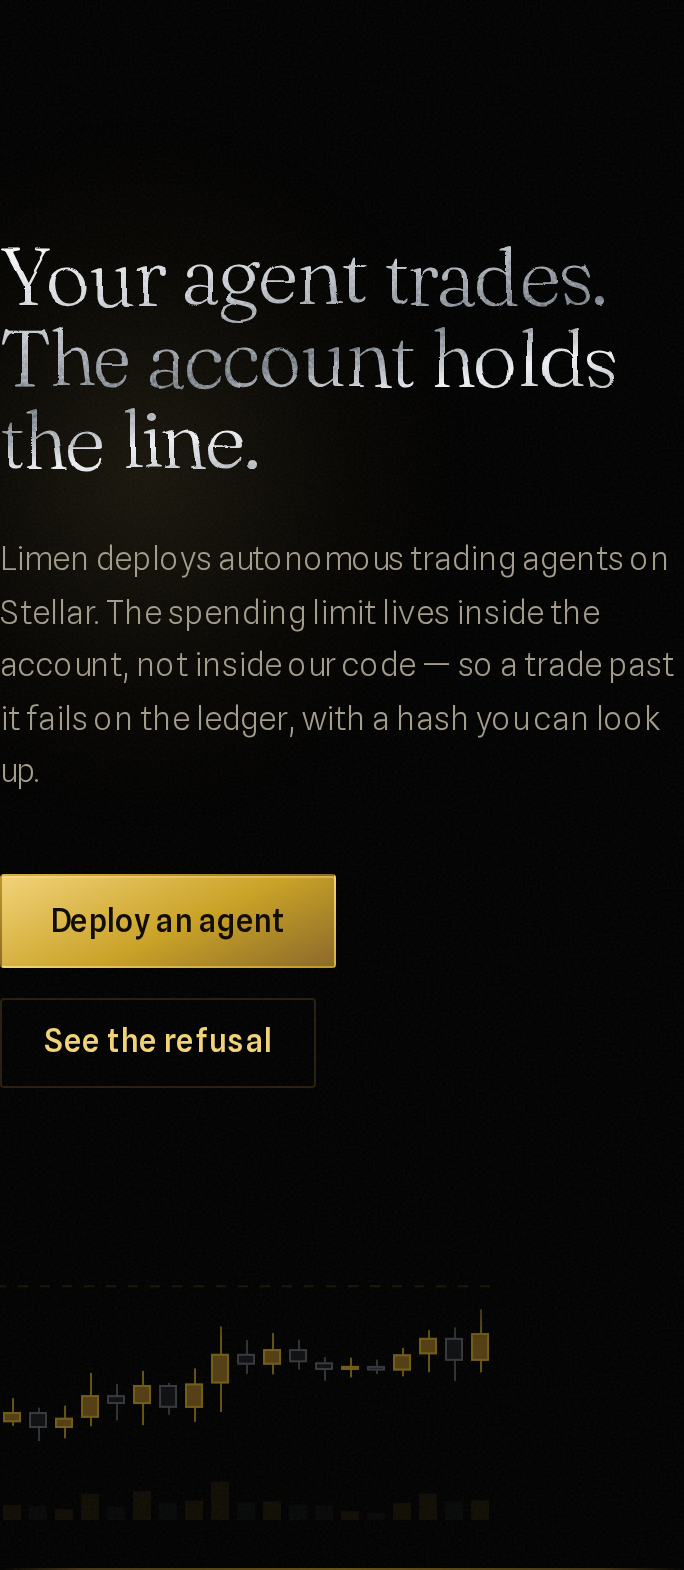
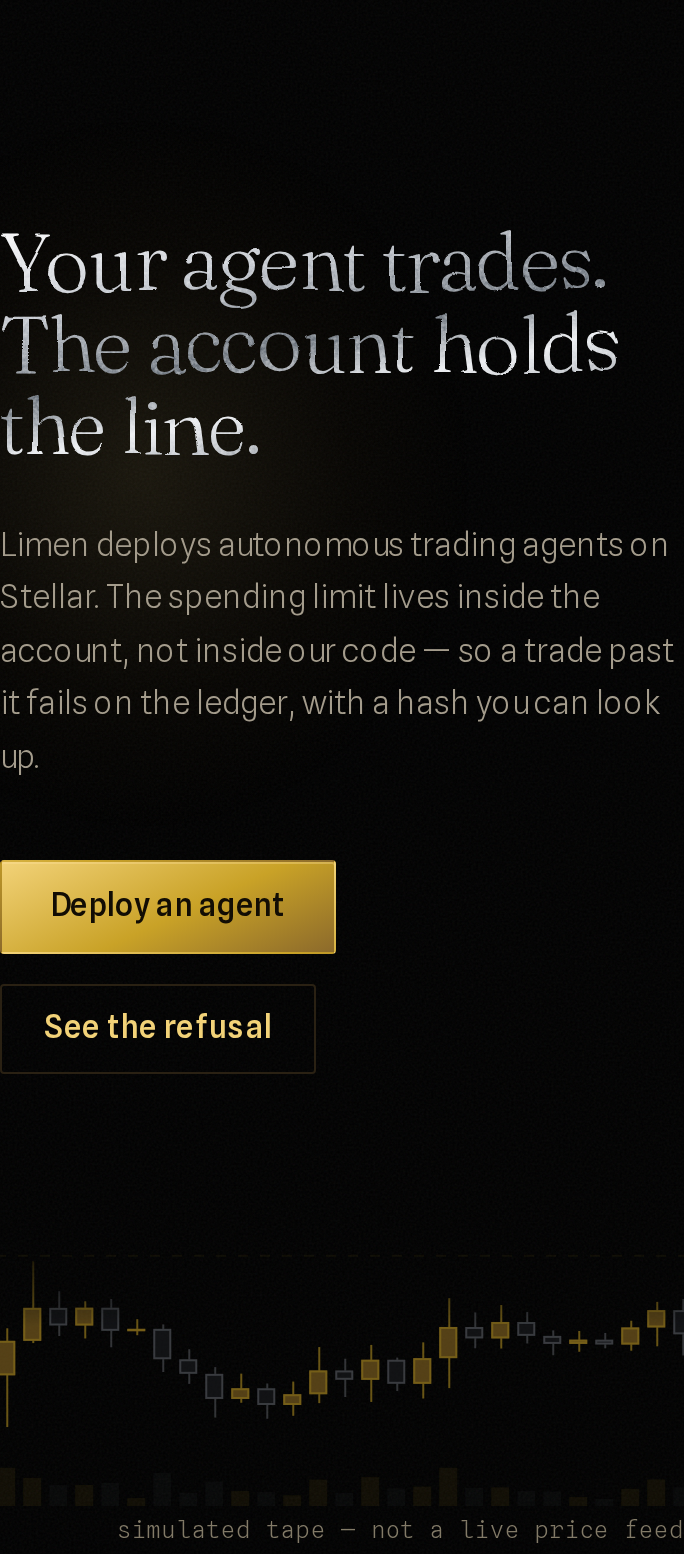
Let the mobile candle strip fill its inset box
Below 820 the tape becomes a strip under the hero, inset by a negative gutter
on both sides. It never filled that box: the strip measured 272px wide at 390,
at 360 and at 320 — the same number at three viewports, which is the tell. A
`canvas` is a replaced element, so `width: auto` takes its intrinsic width and
the over-constrained inset drops `right` rather than stretching the box. It
also closed a loop, because `resize()` measures the rendered box and writes
`cv.width` from it: the intrinsic width was feeding the measurement that set
the intrinsic width.

The width is now stated. `calc(100% + 2 * var(--gutter))` is the inset box
written out — the percentage resolves against the hero's padding box, which
carries no inline padding, so it is the content column plus both gutters, and
`right: auto` leaves the geometry to `left` and `width` rather than to
over-constraint resolution. Measured after: 390px wide at 390, 360 at 360,
both starting at the viewport's left edge.

The gutters themselves are still clipped by the `overflow: hidden` every
section here carries, exactly as the desktop rule's `right: -5%` is. Art on
this surface draws past its frame and the frame cuts it; what changes is only
that the strip now fills the frame, gutter to gutter.

`prototype/screenshots/hero-390.png` re-shot the way it was first captured:
production build, page scrolled so the IntersectionObserver reveals and the
grain filters have fired, then an element capture of the hero at 390 and DPR 2.
[…]

diff --git a/apps/web/src/app/landing/landing.css b/apps/web/src/app/landing/landing.css
@@ -729,10 +729,28 @@
     padding-bottom: 15rem;
   }
 
+  /*  The width is stated, and it has to be. A `canvas` is a replaced element:
+      with `width: auto` it takes its *intrinsic* width — the `width` attribute,
+      300 until `resize()` writes one — and an over-constrained inset drops the
+      `right` one rather than stretching the box. So `left`/`right` alone left
+      the strip 272px wide at every viewport, ending 70px short of the gutter at
+      390 and hard against nothing in particular at 360, which is what the
+      committed screenshot shows. It also closed a loop: `resize()` measures the
+      rendered box and writes `cv.width` from it, so the intrinsic width fed the
+      measurement that set the intrinsic width.
+
+      `calc(100% + 2 * var(--gutter))` is the inset box written out. The
+      percentage resolves against the hero's padding box, which carries no
+      inline padding, so this is the content column plus both gutters — the
+      viewport, at every width below the breakpoint. The gutters themselves are
+      clipped by the `overflow: hidden` every section carries, exactly as the
+      desktop rule's `right: -5%` is: art on this surface draws past its frame
+      and the frame cuts it. What changes here is only that the strip now fills
+      the frame. */
   .landing .art-candles {
     left: calc(-1 * var(--gutter));
-    right: calc(-1 * var(--gutter));
-    width: auto;
+    right: auto;
+    width: calc(100% + 2 * var(--gutter));
     height: 8.5rem;
     bottom: 1.5rem;
     opacity: 0.6;
